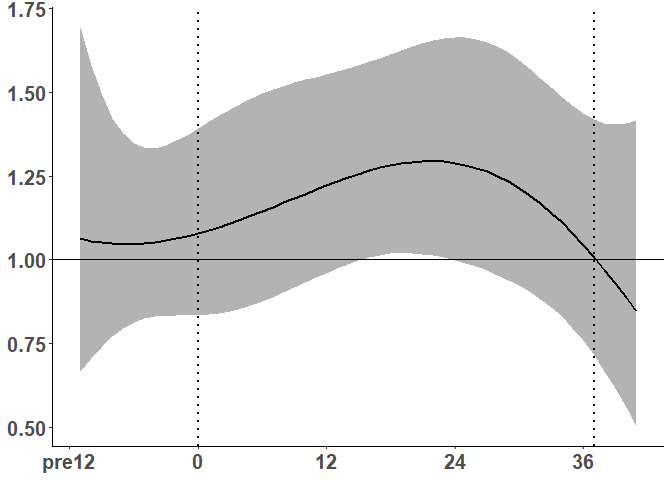
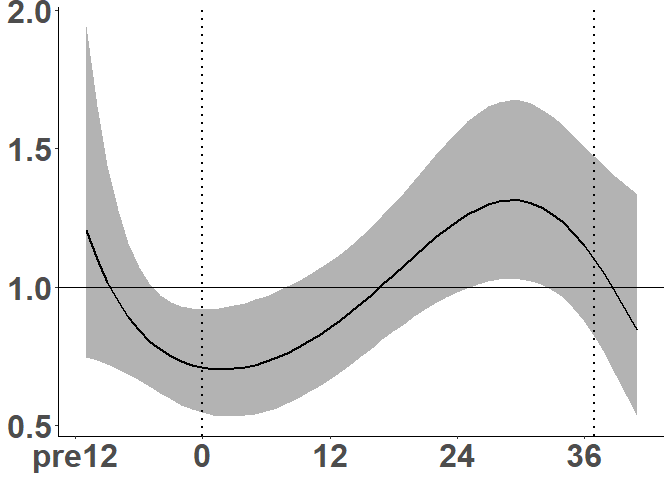
Updating DLM code and plots: fixed incorect data subsetting for LGA sex-stratified analysis

diff --git a/RICHS_PM2.5_DLM.md b/RICHS_PM2.5_DLM.md
@@ -246,7 +246,7 @@ DLM_BWperc_plot
 ![](RICHS_PM2.5_DLM_files/figure-gfm/DLMplot_F13perc-1.png)<!-- -->
 
 ``` r
-pdf("Plots/PM25_DLM_F13perc.pdf")
+pdf("Plots/PM25_DLM_F13perc.pdf",width=6,height=6)
 DLM_BWperc_plot
 dev.off()
 ```
@@ -425,7 +425,7 @@ SGA_DLM_plot
 ![](RICHS_PM2.5_DLM_files/figure-gfm/DLMplot_SGA-1.png)<!-- -->
 
 ``` r
-pdf("Plots/PM25_DLM_SGA.pdf")
+pdf("Plots/PM25_DLM_SGA.pdf",width=6,height=6)
 SGA_DLM_plot
 dev.off()
 ```
@@ -604,7 +604,7 @@ DLM_LGA_plot
 ![](RICHS_PM2.5_DLM_files/figure-gfm/DLMplot_LGA-1.png)<!-- -->
 
 ``` r
-pdf("Plots/PM25_DLM_LGA.pdf")
+pdf("Plots/PM25_DLM_LGA.pdf",width=6,height=6)
 DLM_LGA_plot
 dev.off()
 ```
@@ -806,7 +806,7 @@ DLM_BWperc_plot_Female<-ggplot(predpmdt, aes(x, y)) +
   theme_classic()+
   theme(
   axis.title = element_blank())+
-  theme(axis.text=element_text(size=15,  face="bold"))
+  theme(axis.text=element_text(size=24,  face="bold"))
 
 DLM_BWperc_plot_Female
 ```
@@ -814,7 +814,7 @@ DLM_BWperc_plot_Female
 ![](RICHS_PM2.5_DLM_files/figure-gfm/DLM_BWperc_sex-1.png)<!-- -->
 
 ``` r
-pdf("Plots/PM25_DLM_F13perc_Female.pdf")
+pdf("Plots/PM25_DLM_F13perc_Female.pdf",width=6,height=6)
 DLM_BWperc_plot_Female
 dev.off()
 
@@ -901,7 +901,7 @@ ggplot(predpmdt, aes(x, y)) +
   theme_classic()+
   theme(
   axis.title = element_blank())+
-  theme(axis.text=element_text(size=15,  face="bold"))
+  theme(axis.text=element_text(size=24,  face="bold"))
 
 DLM_BWperc_plot_Male
 ```
@@ -909,7 +909,7 @@ DLM_BWperc_plot_Male
 ![](RICHS_PM2.5_DLM_files/figure-gfm/DLM_BWperc_sex-2.png)<!-- -->
 
 ``` r
-pdf("Plots/PM25_DLM_F13perc_Male.pdf")
+pdf("Plots/PM25_DLM_F13perc_Male.pdf",width=6,height=6)
 DLM_BWperc_plot_Male
 dev.off()
 
@@ -1007,7 +1007,7 @@ DLM_SGA_female_plot<-ggplot(predpmdt, aes(x, y)) +
   theme_classic()+
   theme(
   axis.title = element_blank())+
-  theme(axis.text=element_text(size=15,  face="bold"))
+  theme(axis.text=element_text(size=24,  face="bold"))
 
 DLM_SGA_female_plot
 ```
@@ -1015,7 +1015,7 @@ DLM_SGA_female_plot
 ![](RICHS_PM2.5_DLM_files/figure-gfm/DLM_SGA_sex-1.png)<!-- -->
 
 ``` r
-pdf("Plots/PM25_DLM_SGA_Females.pdf")
+pdf("Plots/PM25_DLM_SGA_Females.pdf",width=6,height=6)
 DLM_SGA_female_plot
 dev.off()
 
@@ -1098,7 +1098,7 @@ ggplot(predpmdt, aes(x, y)) +
   theme_classic()+
   theme(
   axis.title = element_blank())+
-  theme(axis.text=element_text(size=15,  face="bold"))
+  theme(axis.text=element_text(size=24,  face="bold"))
 
 DLM_SGA_male_plot
 ```
@@ -1106,7 +1106,7 @@ DLM_SGA_male_plot
 ![](RICHS_PM2.5_DLM_files/figure-gfm/DLM_SGA_sex-2.png)<!-- -->
 
 ``` r
-pdf("Plots/PM25_DLM_SGA_Males.pdf")
+pdf("Plots/PM25_DLM_SGA_Males.pdf",width=6,height=6)
 DLM_SGA_male_plot
 dev.off()
 
@@ -1130,13 +1130,13 @@ write.csv(prd_all, file = "Data/PM25_DLM_SGA_Males_predfit.csv",row.names=FALSE)
 
 ``` r
 LGA_F<-Demo%>%
-  filter(!F13Group=="LGA")%>%
-  mutate(F13Group=factor(F13Group,levels=c("AGA","SGA")))%>%
+  filter(!F13Group=="SGA")%>%
+  mutate(F13Group=factor(F13Group,levels=c("AGA","LGA")))%>%
   filter(Sex=="Female")
 
 LGA_M<-Demo%>%
-  filter(!F13Group=="LGA")%>%
-  mutate(F13Group=factor(F13Group,levels=c("AGA","SGA")))%>%
+  filter(!F13Group=="SGA")%>%
+  mutate(F13Group=factor(F13Group,levels=c("AGA","LGA")))%>%
   filter(Sex=="Male")
 
 ###################################### Males
@@ -1203,14 +1203,14 @@ DLM_LGA_male_plot<-ggplot(predpmdt, aes(x, y)) +
   theme_classic()+
   theme(
   axis.title = element_blank())+
-  theme(axis.text=element_text(size=15,  face="bold"))
+  theme(axis.text=element_text(size=24,  face="bold"))
 DLM_LGA_male_plot
 ```
 
 ![](RICHS_PM2.5_DLM_files/figure-gfm/DLM_LGA_sex-1.png)<!-- -->
 
 ``` r
-pdf("Plots/PM25_DLM_LGA_Males.pdf")
+pdf("Plots/PM25_DLM_LGA_Males.pdf",width=6,height=6)
 DLM_LGA_male_plot
 dev.off()
 
@@ -1294,7 +1294,7 @@ DLM_LGA_female_plot<-ggplot(predpmdt, aes(x, y)) +
   theme_classic()+
   theme(
   axis.title = element_blank())+
-  theme(axis.text=element_text(size=15,  face="bold"))
+  theme(axis.text=element_text(size=24,  face="bold"))
 
 DLM_LGA_female_plot
 ```
@@ -1302,7 +1302,7 @@ DLM_LGA_female_plot
 ![](RICHS_PM2.5_DLM_files/figure-gfm/DLM_LGA_sex-2.png)<!-- -->
 
 ``` r
-pdf("Plots/PM25_DLM_LGA_Females.pdf")
+pdf("Plots/PM25_DLM_LGA_Females.pdf",width=6,height=6)
 DLM_LGA_female_plot
 dev.off()
 
